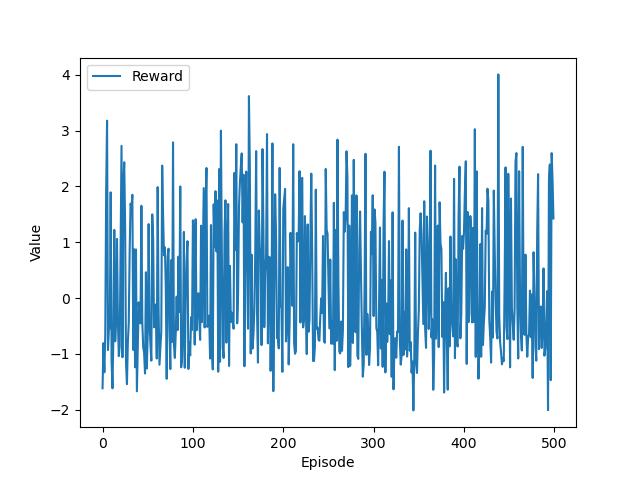
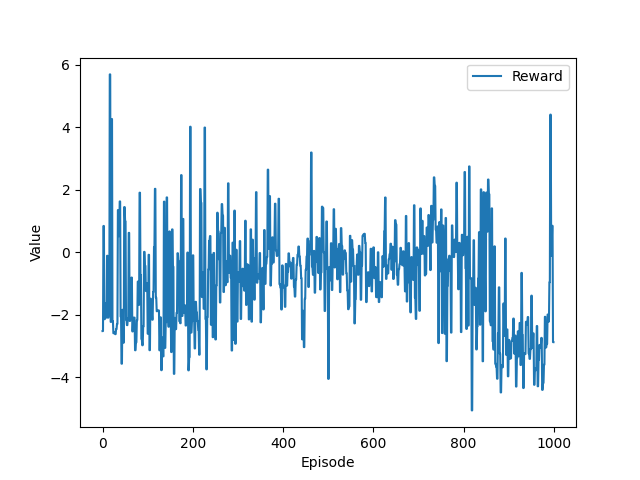
feat: modify valueLR and ac policyNet

diff --git a/controllers/walking/agent_ac.py b/controllers/walking/agent_ac.py
@@ -17,11 +17,11 @@ class PolicyNet(torch.nn.Module):
     def forward(self, state, episode):
         mu = torch.relu(self.mufc1(state))
         mu = torch.relu(self.mufc2(mu))
-        mu = torch.tanh(self.mufc3(mu))
+        mu = torch.sigmoid(self.mufc3(mu)) * (self.actionBounds[:, 1] - self.actionBounds[:, 0]) + self.actionBounds[:, 0]
         # sigma1 = torch.tanh(self.sigmafc1(state))
         # sigma2 = torch.tanh(self.sigmafc2(sigma1))
         # sigma = torch.exp(self.sigmafc3(sigma2))
-        sigma = math.exp(-episode/500) * self.actionBounds.max(1)[0]
+        sigma = math.exp(-episode/500) * (self.actionBounds[:, 1] - self.actionBounds[:, 0]) / 2 + 1e-3
         return mu, sigma
 
 # critic
@@ -65,7 +65,7 @@ class Agent_AC:
         return self.valueNet(stateVec)
 
     def genLogProb(self, actionVec, stateVec, episode):
-        mu, sigma = self.policyNet(stateVec)
+        mu, sigma = self.policyNet(stateVec, episode)
         return torch.distributions.Normal(mu, sigma).log_prob(actionVec)
 
     def update(self, reward, prevStateVec, stateVec, actionVec, step, episode):

diff --git a/controllers/walking/walkingRobot.py b/controllers/walking/walkingRobot.py
@@ -16,7 +16,7 @@ class WalkingRobot:
         self.maxStep = 512
         self.gamma = 0.99
         self.policyLR = 3e-4
-        self.valueLR = 1e-3
+        self.valueLR = 5e-4
         self.reward = 0
         self.cumulatedReward = 0
         self.cumulatedForwardReward = 0
@@ -68,7 +68,7 @@ class WalkingRobot:
         # Initialize agent
         stateDim = 8 + len(self.motorSensors)
         actionDim = len(self.motors)
-        self.agent = Agent_PPO(stateDim, actionDim, self.gamma, self.policyLR, self.valueLR, self.device)
+        self.agent = Agent_AC(stateDim, actionDim, self.gamma, self.policyLR, self.valueLR, self.actionBounds, self.device)
         
         # # 加载模型参数
         # try:
